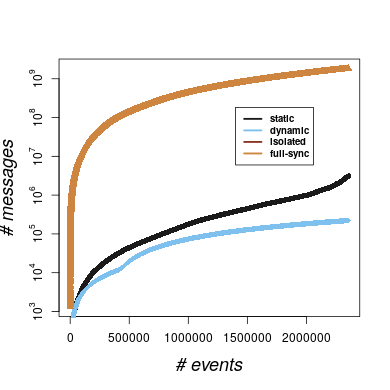
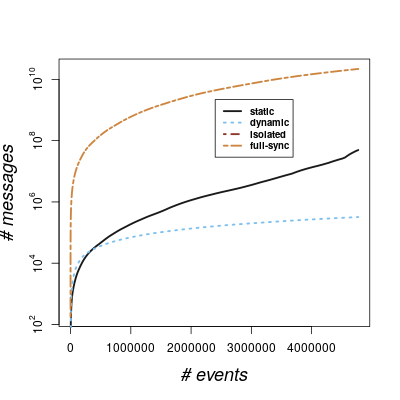
update results section

Changed region(s): [[0.0, 0.1231, 0.9538, 0.8923], [0.4308, 0.9231, 0.6462, 0.9538]]

diff --git a/evaluation.tex b/evaluation.tex
@@ -1,66 +1,67 @@
 \section{EMPIRICAL EVALUATION}
 \label{sec:results}
-In this section, we evaluate the performance of our system using real-world event streams provided by the datAcron project in the context of maritime domains. The used event streams describe trajectory critical points (i.e., synopses) of moving vessels, which are derived from raw AIS messages as was  described in \cite{synopses1}. In particular, for our evaluation we used a data set of synopses contains $4,684,444$ critical points of $5055$ vessels sailing in the Atlantic Ocean during the period from 1 October 2015 to 31 March 2016. We use it to generate a simulated stream of event tuples  \textit{(id,type,timestamp, longitude, latitude, annotation, speed, heading)},    where $type$ $\in \Sigma$ and $\Sigma=$ $\{$\textit{VerySlow ,Slow, Moving, Sailing, Stopping} $\}$ that is based on the  vessel speed, and $annotation$ is an attribute to encode the trajectory movement events such as speed change, slow motion, and gap in reporting. In our experiments, we monitor a pattern $\mathcal{P}=Sailing$ that detects when the vessel under way (sailing).
+In this section, we evaluate the performance of our system using a real-world event streams provided by the datAcron project in the context of maritime monitoring. The used event streams describe critical points (i.e., synopses) of moving vessels trajectories, which are derived from raw AIS messages as was  described in \cite{synopses1}. In particular, for our evaluation experiments we used a data set of synopses contains $4,684,444$ critical points of $5055$ vessels sailing in the Atlantic Ocean during the period from 1 October 2015 to 31 March 2016. We used it to generate a simulated stream of event tuples  \textit{(id,timestamp, longitude, latitude, annotation, speed, heading)}, which are processed by the system to attach another field \textit{type} that represents the event value,  where $type$ $\in \Sigma$,  and $ \Sigma= \Sigma_1=$$\{$\textit{VerySlow ,Slow, Moving, Sailing, Stopping} $\}$ , which is based on ranging the speed values. Or $\Sigma=\Sigma_2=$ $\{$  \textit{stopStart,stopEnd, changeInSpeedStart, changeInSpeedEnd, slowMotionStart, slowMotionEnd, gapStart, gapEnd,   changeInHeading} $\}$, which is derived based on the values of the $annotation$ attribute that encodes the extracted trajectory movement events \cite{synopses1}. In our experiments, we monitor a pattern $\mathcal{P}_1=Sailing$ with $m=2$ over $\Sigma_1$ that detects when the vessel under way (sailing). In addition, we test a second pattern  $\mathcal{P}_2=$\textit{changeInHeading; gapStart; gapEnd; changeInHeading} with $m=1$ over $\Sigma_2$.
 
 
 \subsubsection*{Experimental setup} We ran our experiments on single-node standalone Flink cluster deployed on a server (Ubuntu 17.04) with Intel(R) Core(TM) i7-7700 CPU @ 3.60GHz X 8 processors and 32GB RAM. We used Apache Flink v1.3.2 and Apache Kafka v0.10.2.1 for our tests.
 
 
-\subsubsection*{Evaluation criteria} Our goal is to evaluate our distributed pattern prediction based on enabling the synchronization of PMC models between the predictors against the isolated ones (i.e., without exchanging information), we compare the predictive performance in terms of :
+\subsubsection*{Evaluation criteria} Our goal is to evaluate our distributed pattern prediction system, which enables the synchronization of prediction models(i.e., PMC models) on the distributed predictor nodes. Our proposed system can operate with three different flavors of synchronization schemes: \begin{enumerate*}[label=(\roman*)] 
+	\item static based on synchronizing the prediction models periodically every $b$ of input events, 
+\item continuous synchronization for each incoming event (hypothetical), 
+\item dynamic synchronization based on making the predictors communicate their prediction models periodically only when the divergence of the models form a reference model exceeds a variance threshold $\Delta$ (recommended).
+ 	   
+\end{enumerate*}
+We compare our proposed system against the isolated prediction approach (i.e., without exchanging information), we compare the predictive performance in terms of :
 \begin{enumerate*}[label=(\roman*)]
 	
-\item  average $\mathit{precision = \frac{\#\ of\ correct\ predictions}{\#\ of\ total\ predictions}}$ per predictor node
+\item  $\mathit{precision = \frac{\#\ of\ correct\ predictions}{\#\ of\ total\ predictions}}$ is the percent of the produced predictions are correct (i.e., a full match occurred within the prediction interval).   
 
-\item $\mathit{cumulative\ error}$ that presents the aggregated number of all wrong predictions.
-
-\item $\mathit{recall}$ is the fraction of the pattern's full matches are successfully predicted by the system at least once. 
+\item $\mathit{recall}$ is the fraction of the full matches of the pattern are successfully predicted by the system at least once. 
 
 \end{enumerate*} 
-Moreover, we study the communication cost by measuring the $\mathit{cumulative\ communication}$ that captures the number of  synchronization related messages, which is introduced by employing the static or dynamic synchronization schemes of the distributed online learning protocol. In next, we present the experimental results for the for the pattern  $\mathcal{P}=Sailing$ with $m=2$, batch size $b=100$,  variance threshold $\Delta=2$, and PMC prediction threshold $\theta_{fc}=80\%$.
+\par Moreover, we study the communication cost by measuring the $\mathit{cumulative\ communication}$ that captures the number of messages are required to perform the distributed online learning to synchronize the prediction models. In next, we present the experimental results for the for the pattern  $\mathcal{P}_1=Sailing$ with $m=2$, batch size $b=100$, variance threshold $\Delta=2$, and PMC prediction threshold $\theta_{fc}=80\%$.
 
 \begin{figure}[]
 	
 	\includegraphics[width=.5\textwidth]{figures/precision.png}
 	
-	\caption{Precision scores.}
+	\caption{Precision scores with respect to the total number of input events over time for the pattern $\mathcal{P}_1$.}
 	\label{fig:precsions}
 \end{figure}
 
-\subsubsection*{Experimental results} Figure ~\ref{fig:precsions} depicts the precision scores (i.e., average precision of prediction model per vessel)  of all approaches, namely, isolated without synchronization, continuous synchronization, static (periodic), and our proposed approach based on the dynamic synchronization scheme. While Figure ~\ref{fig:error} shows the average cumulative error per predictor.       
+\subsubsection*{Experimental results} Figure ~\ref{fig:precsions} depicts the average precision scores of predictions models (one prediction model per vessel) of all approaches, namely, isolated without synchronization, continuous, static, and our recommended approach based on the dynamic synchronization scheme. It can be clearly seen that all methods of distributed learning outperform the isolated prediction models. The most complex method, continuous synchronization, has the higher precision rates, while the static and dynamic synchronization schemes have a similar precision scores. 
+\par In addition, Figure ~\ref{fig:comm} provides the accumulated communication required for the three approaches based on the distributed online learning, while, the isolated approach does not require any communication between the models. As expected, a larger amount of communication is required for the continuous synchronization comparing to the static and dynamic approaches, and it can bee seen that we can reduce the communication overhead by applying the dynamic synchronization protocol (a reduction by a factor of 100) comparing to the static synchronization scheme, even with a small variance threshold $\Delta=2$. Furthermore, the dynamic method is still preserving a similar predictive performance of the static one as shown in Figure ~\ref{fig:precsions}.    
 
 
-\begin{figure}[]
-	
-	\includegraphics[width=.5\textwidth]{figures/error.png}
-	
-\caption{Commutative error.}
-\label{fig:error}
-\end{figure}
 
-\par In Table ~\ref{tab:recall}, we present the statistics of recall results for the different approaches. It can be seen 
 
 
 \begin{figure}[]
 	
 	\includegraphics[width=.5\textwidth]{figures/communication.png}
 	
-	\caption{Commutative communication.}
+	\caption{Commutative communication with respect to the total number of input events over time for the pattern $\mathcal{P}_1$.}
 	\label{fig:comm}
 \end{figure}
+
+
+\par In Table ~\ref{tab:recall}, we present the statistics of recall results for the different approaches. It can be seen 
+
 \begin{table}[]
 	\caption{Recall results.}
 	\label{tab:recall}
-	\begin{tabular}{lll}
+	\begin{tabular}{lcc}
 		\toprule
-		Approach &Mean&Max\\
+		Approach &Mean recall for $\mathcal{P}_1$ &Mean recall for $\mathcal{P}_2$\\
 		\midrule
-		isolated & 0.1948  & 0.23 \\
-		static & 0.1976  &  0.23 \\
-		dynamic & 0.1974  & 0.23 \\
-		full-sync & 0.1979  & 0.33 \\
+		isolated & 0.1707  & 0.860 \\
+		static & 0.1754  &  0.970 \\
+		dynamic & 0.174  & 0.962 \\
+		full-sync & 0.1817  & 0.972 \\
 		\bottomrule
 	\end{tabular}
 \end{table}
 
 
-Figure ~\ref{fig:comm} provides the accumulated communication required for the three approaches based on the distributed online learning. As expected, larger amount of communication is required for the continuous synchronization comparing to static and dynamic approaches, and it can bee seen with small variance threshold $\Delta=2$ that we can reduce the communication using the dynamic synchronization and comparing the (static) periodic method, and furthermore, still preserving the predictive performance as was shown in Figures ~\ref{fig:precsions} and ~\ref{fig:error}.  
+ 
